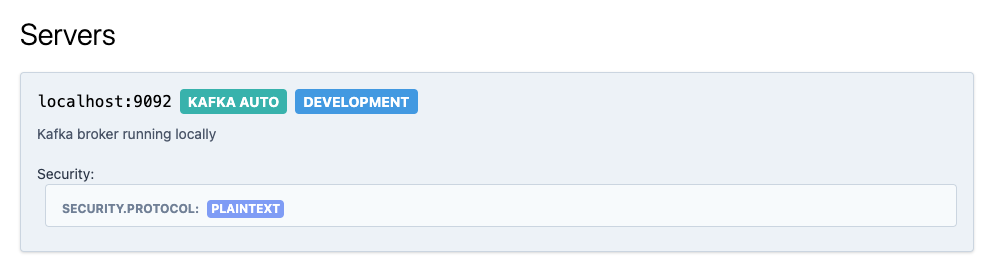
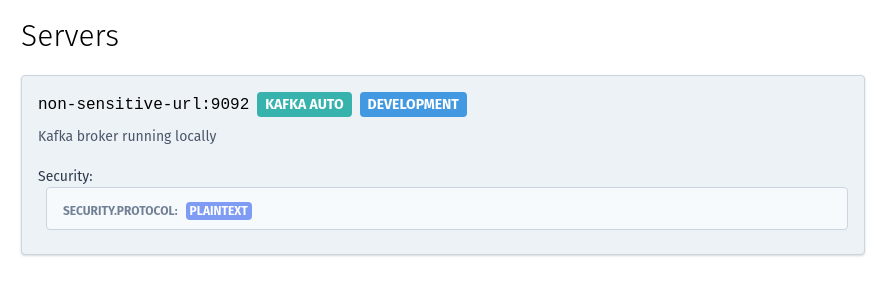
Update AsynAPI customization info

diff --git a/docs/docs_src/getting_started/asyncapi/asyncapi_customization/custom_broker.py b/docs/docs_src/getting_started/asyncapi/asyncapi_customization/custom_broker.py
@@ -2,8 +2,13 @@ from faststream import FastStream
 from faststream.kafka import KafkaBroker, KafkaMessage
 from faststream.asyncapi.schema import Tag
 
-broker = KafkaBroker("localhost:9092", description="Kafka broker running locally")
+broker = KafkaBroker(
+    "localhost:9092",
+    description="Kafka broker running locally",
+    asyncapi_url="non-sensitive-url:9092",
+)
 app = FastStream(broker)
+
 
 @broker.publisher("output_data")
 @broker.subscriber("input_data")

diff --git a/docs/docs_src/getting_started/asyncapi/asyncapi_customization/custom_handler.py b/docs/docs_src/getting_started/asyncapi/asyncapi_customization/custom_handler.py
@@ -21,8 +21,13 @@ app = FastStream(broker)
     schema=DataBasic,
 )
 @broker.subscriber(
-    "input_data", description="My subscriber description", title="input_data:Consume"
+    "input_data", title="input_data:Consume"
 )
 async def on_input_data(msg):
+    """Consumer function
+
+    Args:
+        msg: input msg
+    """
     # your processing logic
     pass

diff --git a/docs/docs/en/getting-started/asyncapi/custom.md b/docs/docs/en/getting-started/asyncapi/custom.md
@@ -46,12 +46,13 @@ The next step is to customize broker information. This helps users understand th
 
 1. Locate the broker configuration in your FastStream application.
 1. Update the `description` field.
+1. Update the `asyncapi_url` field with a non-sensitive URL if you want to conceal your broker's actual bootstrap server URL.
 1. Save the changes.
 1. Serve your FastStream app.
 
 Copy the following code in your basic.py file, we have highligted the additional info passed to the FastStream app broker:
 
-```python linenums="1" hl_lines="5"
+```python linenums="1" hl_lines="5-9"
     {!> docs_src/getting_started/asyncapi/asyncapi_customization/custom_broker.py !}
 ```
 
@@ -67,6 +68,7 @@ Customizing handler information helps users comprehend the purpose and behavior 
 
 1. Navigate to your handler definitions in your FastStream application.
 1. Add descriptions to each handler using `description` field.
+1. For subscriber, consumer function's docstring can be used as `description`.
 1. Add titles to each handler using `title` field adhering to [URI format](https://datatracker.ietf.org/doc/html/rfc3986).
 1. Add publishing schema to publisher handler using `schema` field.
 1. Save the changes.
@@ -74,7 +76,7 @@ Customizing handler information helps users comprehend the purpose and behavior 
 
 Copy the following code in your basic.py file, we have highligted the additional info passed to the FastStream app handlers:
 
-```python linenums="1" hl_lines="17-25"
+```python linenums="1" hl_lines="17-25 27-31"
     {!> docs_src/getting_started/asyncapi/asyncapi_customization/custom_handler.py !}
 ```
 

diff --git a/docs/docs/en/getting-started/asyncapi/hosting.md b/docs/docs/en/getting-started/asyncapi/hosting.md
@@ -41,3 +41,24 @@ And you should be able to see the following page in your browser:
 
 !!! tip
     The command also offers options to serve the documentation on a different host and port.
+
+## Customizing AsyncAPI Documentation
+
+FastStream also provides query parameters to show and hide specific sections of AsyncAPI documentation.
+
+You can use the following parameters control the visibility of relevant sections:
+
+1. `sidebar`: Whether to include the sidebar. Default is true.
+1. `info`: Whether to include the info section. Default is true.
+1. `servers`: Whether to include the servers section. Default is true.
+1. `operations`: Whether to include the operations section. Default is true.
+1. `messages`: Whether to include the messages section. Default is true.
+1. `schemas`: Whether to include the schemas section. Default is true.
+1. `errors`: Whether to include the errors section. Default is true.
+1. `expandMessageExamples`: Whether to expand message examples. Default is true.
+
+For example, to hide the entire `Servers` section of the documentation, simply add `servers=false` as a query parameter, i.e., <http://localhost:8000?servers=false>. The resulting page would look like the image below:
+
+![HTML-page](../../../assets/img/AsyncAPI-hidden-servers.png){ loading=lazy }
+
+Please use the above-listed query parameters to show and hide sections of the AsyncAPI documentation.
